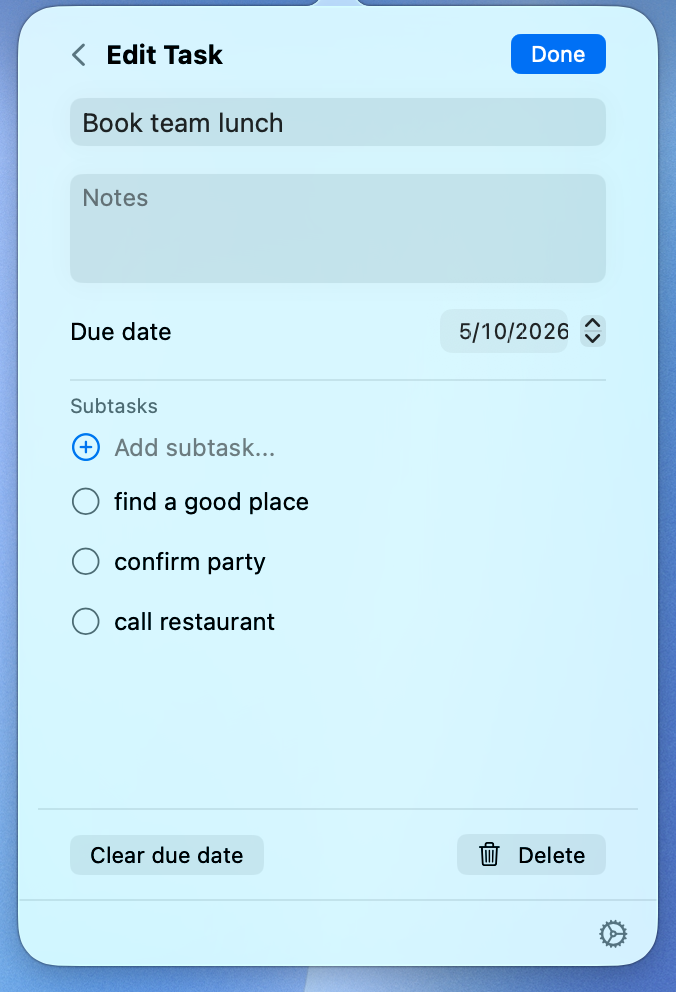
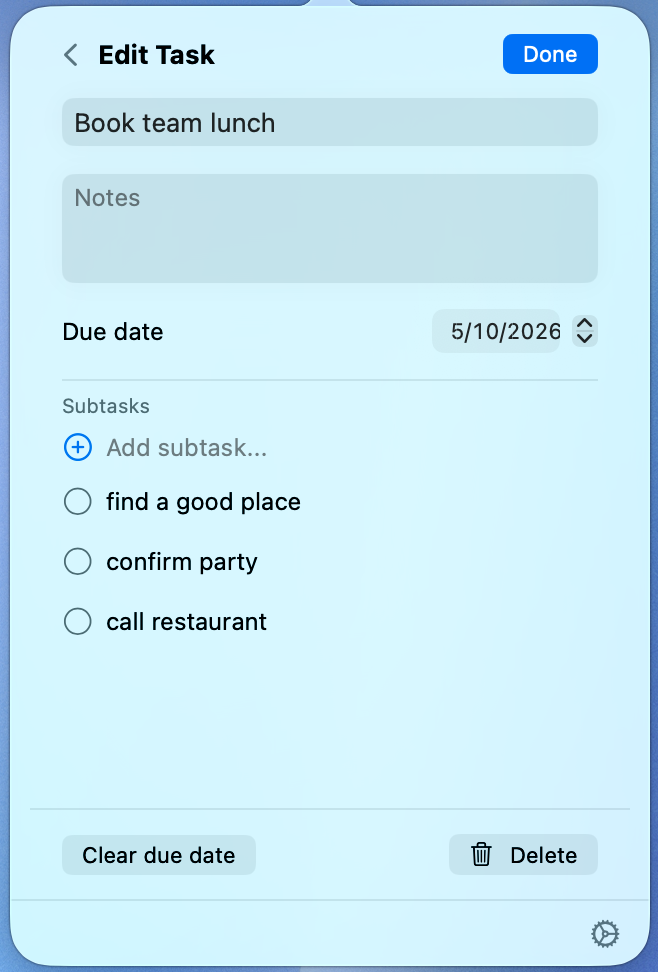
Update screenshots

diff --git a/README.md b/README.md
@@ -6,7 +6,7 @@ TaskMenu brings Google Tasks to the macOS menu bar with a fast, native SwiftUI i
 
 <p align="center">
   <img src="screenshots/task-list.png" alt="TaskMenu task list popover with quick add and filtering" width="360">
-  <img src="screenshots/task-detail.png" alt="TaskMenu edit task view with due date and subtasks" width="335">
+  <img src="screenshots/task-detail.png" alt="TaskMenu edit task view with due date and subtasks" width="360">
 </p>
 
 ## Links
